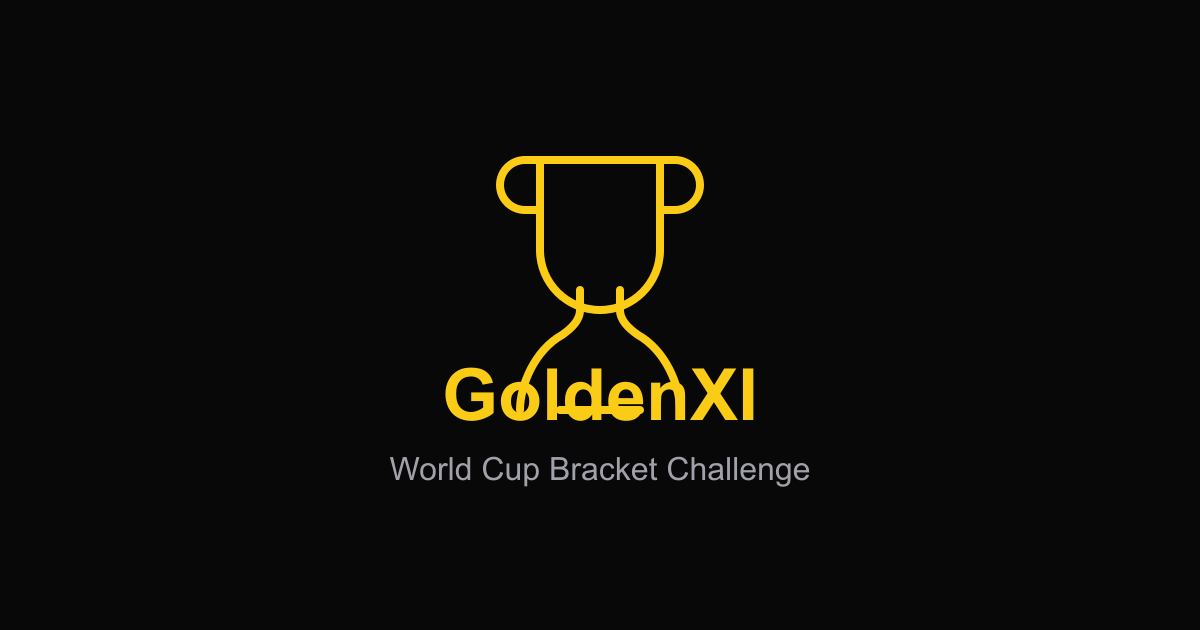
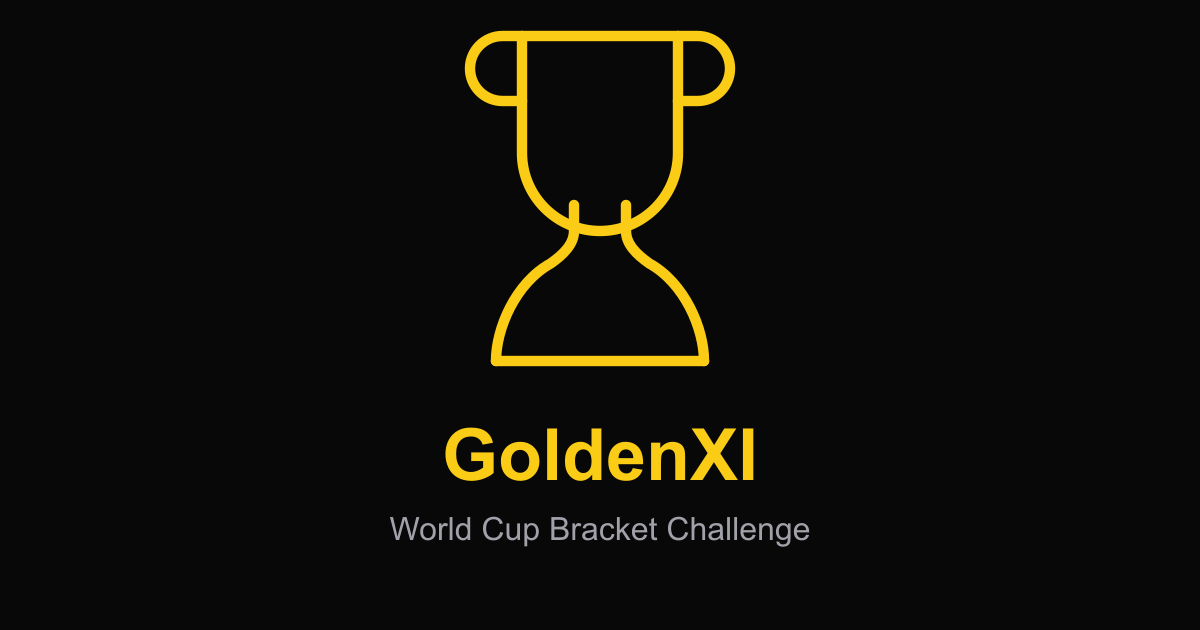
image

Changed region(s): [[0.3083, 0.0302, 0.6783, 0.7841], [0.3083, 0.8143, 0.6783, 0.8746]]

diff --git a/scripts/generate-og-image.js b/scripts/generate-og-image.js
@@ -5,16 +5,16 @@ const fs = require('fs');
 const svg = `
 <svg xmlns="http://www.w3.org/2000/svg" viewBox="0 0 1200 630" fill="none">
   <rect width="1200" height="630" fill="#080808"/>
-  <g transform="translate(600, 240)">
+  <g transform="translate(600, 140) scale(1.3)">
     <path d="M-60 -30 H-75 A25 25 0 0 1 -75 -80 H-60" stroke="#FACC15" stroke-width="8" stroke-linecap="round" stroke-linejoin="round" fill="none"/>
     <path d="M60 -30 H75 A25 25 0 0 0 75 -80 H60" stroke="#FACC15" stroke-width="8" stroke-linecap="round" stroke-linejoin="round" fill="none"/>
-    <path d="M-40 170 H40" stroke="#FACC15" stroke-width="8" stroke-linecap="round" stroke-linejoin="round"/>
+    <path d="M-80 170 H80" stroke="#FACC15" stroke-width="8" stroke-linecap="round" stroke-linejoin="round"/>
     <path d="M-20 50 V 70 C-20 80 -28 88 -38 95 C-65 110 -80 145 -80 170" stroke="#FACC15" stroke-width="8" stroke-linecap="round" stroke-linejoin="round" fill="none"/>
     <path d="M20 50 V 70 C20 80 28 88 38 95 C65 110 80 145 80 170" stroke="#FACC15" stroke-width="8" stroke-linecap="round" stroke-linejoin="round" fill="none"/>
     <path d="M60 -80 H-60 V 10 A60 60 0 0 0 60 10 V-80 Z" stroke="#FACC15" stroke-width="8" stroke-linecap="round" stroke-linejoin="round" fill="none"/>
   </g>
-  <text x="600" y="420" text-anchor="middle" font-family="Arial, sans-serif" font-size="72" font-weight="bold" fill="#FACC15">GoldenXI</text>
-  <text x="600" y="480" text-anchor="middle" font-family="Arial, sans-serif" font-size="32" fill="#A1A1AA">World Cup Bracket Challenge</text>
+  <text x="600" y="480" text-anchor="middle" font-family="Arial, sans-serif" font-size="72" font-weight="bold" fill="#FACC15">GoldenXI</text>
+  <text x="600" y="540" text-anchor="middle" font-family="Arial, sans-serif" font-size="32" fill="#A1A1AA">World Cup Bracket Challenge</text>
 </svg>
 `;
 

diff --git a/app/join/[code]/page.tsx b/app/join/[code]/page.tsx
@@ -75,7 +75,7 @@ export async function generateMetadata({ params }: InvitePageProps) {
       openGraph: {
         images: [
           {
-            url: "https://goldenxi.vercel.app/og-image.png?v=3",
+            url: "https://goldenxi.vercel.app/og-image.png?v=6",
             width: 1200,
             height: 630,
             alt: "GoldenXI World Cup Bracket Challenge",
@@ -92,7 +92,7 @@ export async function generateMetadata({ params }: InvitePageProps) {
     openGraph: {
       images: [
         {
-          url: "https://goldenxi.vercel.app/og-image.png?v=3",
+          url: "https://goldenxi.vercel.app/og-image.png?v=4",
           width: 1200,
           height: 630,
           alt: "GoldenXI World Cup Bracket Challenge",

diff --git a/app/layout.tsx b/app/layout.tsx
@@ -31,7 +31,7 @@ export const metadata: Metadata = {
     siteName: "GoldenXI",
     images: [
       {
-        url: "https://goldenxi.vercel.app/og-image.png?v=3",
+        url: "https://goldenxi.vercel.app/og-image.png?v=6",
         width: 1200,
         height: 630,
         alt: "GoldenXI World Cup Bracket Challenge",
@@ -45,7 +45,7 @@ export const metadata: Metadata = {
     card: "summary_large_image",
     title: "GoldenXI",
     description: "Create your World Cup bracket and compete with friends.",
-    images: ["https://goldenxi.vercel.app/og-image.png?v=3"],
+    images: ["https://goldenxi.vercel.app/og-image.png?v=4"],
   },
 };
 

diff --git a/app/u/[username]/bracket/page.tsx b/app/u/[username]/bracket/page.tsx
@@ -194,7 +194,7 @@ export async function generateMetadata({ params }: PublicBracketPageProps) {
     openGraph: {
       images: [
         {
-          url: "https://goldenxi.vercel.app/og-image.png?v=3",
+          url: "https://goldenxi.vercel.app/og-image.png?v=6",
           width: 1200,
           height: 630,
           alt: "GoldenXI World Cup Bracket Challenge",